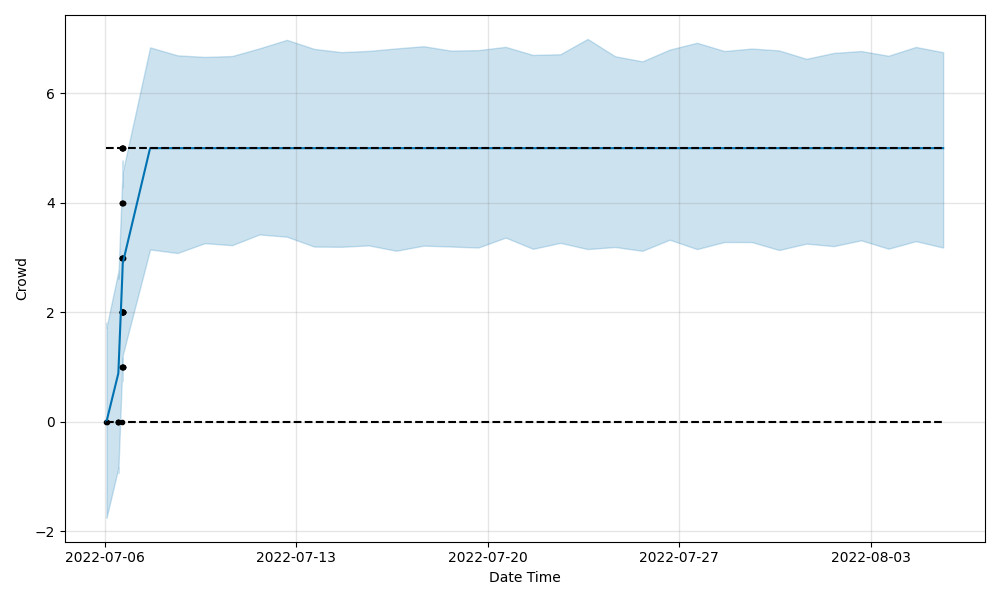
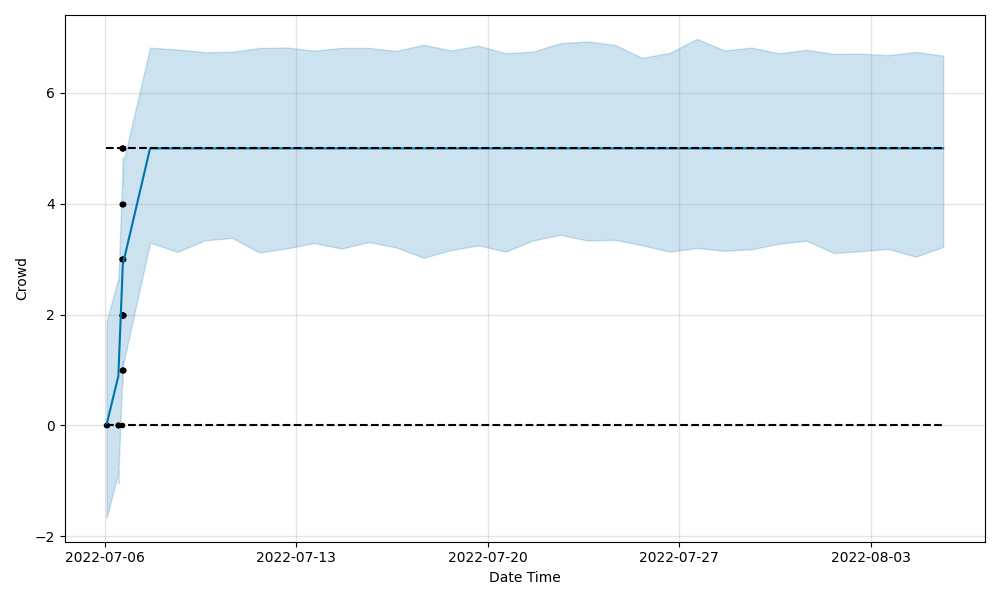
remove forecasting folder

diff --git a/main.py b/main.py
@@ -28,7 +28,7 @@ def home():
 
     if request.method == 'POST':
         if request.form['btnForecast'] == 'Generate':
-            #forecast.generate_forecast()
+            forecast.generate_forecast()
             print("FORM 1")
 
     return render_template('home.html', image_1=image_1, image_2=image_2, seat_1=seat_1, seat_2=seat_2,
